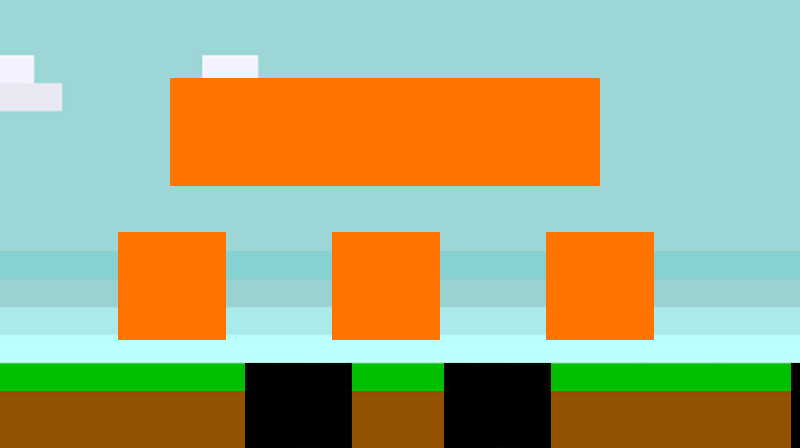
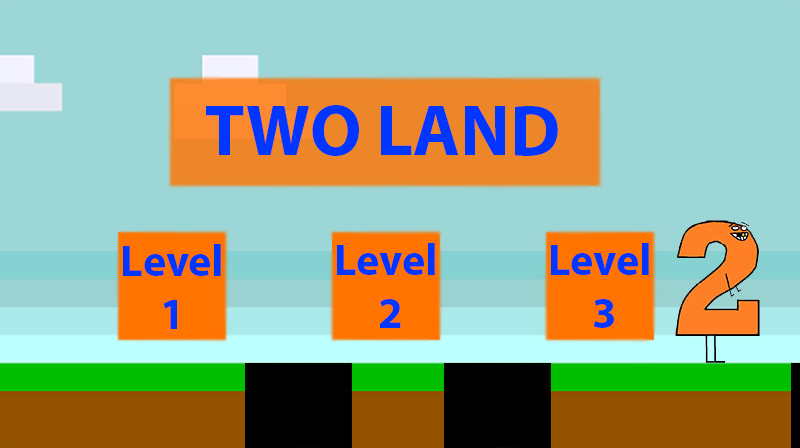
4/8/2015

diff --git a/SideScroller/src/AlphaGame/Background.java b/SideScroller/src/AlphaGame/Background.java
@@ -52,8 +52,10 @@ public class Background extends JPanel implements ActionListener, Runnable {
 
 
 	Path wall1 = Paths.get("Resources/Images/Levels/firstLevel.png");
+	Path wall2 = Paths.get("Resources/Images/Levels/secondLevel.png");
 
-
+	int lvlID;
+	
 	/** 
 	 *   Constructs the new Background object with a timer, a new character object, and an action listener
 	 * @throws FileNotFoundException 
@@ -61,18 +63,26 @@ public class Background extends JPanel implements ActionListener, Runnable {
 	public Background(String name) throws FileNotFoundException{
 		guy = new Character();
 		
-		
-		setFocusable(true);
-		
 		addKeyListener(new AL());
 		
-		ImageIcon i = new ImageIcon(wall1.toString());
-		background = i.getImage();
+		
+		
 
 		time = new Timer(5, this);
 		time.start();
 
 		obstacleInit(name);
+		
+		ImageIcon i=null;
+		if(lvlID==1){
+			i = new ImageIcon(wall1.toString());
+		}
+		if(lvlID==2){
+			i = new ImageIcon(wall2.toString());
+		}
+		
+		background = i.getImage();
+		
 	}
 
 	private void obstacleInit(String level) throws FileNotFoundException{
@@ -80,7 +90,9 @@ public class Background extends JPanel implements ActionListener, Runnable {
 		Scanner scan = new Scanner(file);
 
 		int i=0;
-
+		
+		lvlID=scan.nextInt();
+		
 		if(scan.hasNext("hole")){
 			scan.next();
 			holes = scan.nextInt();
@@ -153,6 +165,16 @@ public class Background extends JPanel implements ActionListener, Runnable {
 		}
 		
 		
+		if(failure){
+			setFocusable(false);
+			time.stop();
+			try {
+				Frame.lvlEnd();
+			} catch (FileNotFoundException e1) {
+				// TODO Auto-generated catch block
+				e1.printStackTrace();
+			}
+		}
 		repaint();
 	}
 
@@ -171,9 +193,17 @@ public class Background extends JPanel implements ActionListener, Runnable {
 		super.paint(g);
 
 		Graphics2D g2d = (Graphics2D) g;
+		
 		g2d.drawImage(background, backX, 0, null);
 
 		g2d.drawImage(guy.getImage(), guy.getX(), v, null);
+		
+		if((guy.getX()+(backX*(-1)))>Frame.getScore()){
+			Frame.setScore((guy.getX()+(backX*(-1))));
+		}
+		
+		g2d.setFont(new Font("TimesRoman", Font.PLAIN, 25)); 
+		g2d.drawString("Your score: "+Frame.getScore(), 10, 25);
 
 	}
 

diff --git a/SideScroller/src/AlphaGame/Frame.java b/SideScroller/src/AlphaGame/Frame.java
@@ -4,22 +4,27 @@ import java.io.FileNotFoundException;
 
 import java.util.Timer;
 
+
 /** 
  *   The Main Class for the test game
  *   
  *   @author Team Two
  */
 import javax.swing.JFrame;
+import javax.swing.JPanel;
 
 public class Frame {
 	
 	static JFrame frame = new JFrame("2D Game");
+	static TitleScreen title;
+	static Background level;
+	
+	static int maxScore;
 
 	public Frame() throws FileNotFoundException{
+		maxScore=0;
+		frame.add(title = new TitleScreen());
 		
-		frame.add(new TitleScreen());
-		
-		//frame.add(new Background("Resources/LevelData/Level1.txt") );
 		frame.setDefaultCloseOperation(JFrame.EXIT_ON_CLOSE);
 		frame.setSize(800, 448);
 		frame.setVisible(true);
@@ -27,19 +32,42 @@ public class Frame {
 		
 		
 	}
+	
+	public static void setScore(int score){
+		maxScore = score;
+	}
+	public static int getScore(){
+		return maxScore;
+	}
 
+	public static void lvlEnd() throws FileNotFoundException{
+		frame.getContentPane().removeAll();
+		
+		frame.add(title = new TitleScreen());
+		frame.setDefaultCloseOperation(JFrame.EXIT_ON_CLOSE);
+		frame.setVisible(true);
+		frame.setLocationRelativeTo(null);
+		frame.repaint();
+	}
+	
+	
 	public static void lvlStart(String name) throws FileNotFoundException{
 		frame.getContentPane().removeAll();
-		frame.add(new Background(name));
+		
+		frame.add(level=new Background(name));
 		frame.setDefaultCloseOperation(JFrame.EXIT_ON_CLOSE);
-		frame.setSize(800, 448);
 		frame.setVisible(true);
 		frame.setLocationRelativeTo(null);
 		frame.repaint();
 		
 	}
 	public static void main(String[] args) throws FileNotFoundException{
-		new Frame();
+		
+		
+		
+		Frame game =new Frame();
+		
+		
 	}
 
 	

diff --git a/SideScroller/src/AlphaGame/TitleScreen.java b/SideScroller/src/AlphaGame/TitleScreen.java
@@ -43,8 +43,10 @@ public class TitleScreen extends JPanel implements ActionListener{
 		kRelease = true;
 		selector = 148;
 		
-		addKeyListener(new Act());
 		setFocusable(true);
+		
+		addKeyListener(new Act());
+		
 		
 		
 		
@@ -55,7 +57,9 @@ public class TitleScreen extends JPanel implements ActionListener{
 		
 		think = new Timer(1, this);
 		think.start();
+		
 
+		requestFocus();
 
 	}
 
@@ -67,7 +71,7 @@ public class TitleScreen extends JPanel implements ActionListener{
 	
 	
 	public void actionPerformed(ActionEvent e){
-		
+		requestFocus();
 		repaint();
 	}
 
@@ -77,12 +81,18 @@ public class TitleScreen extends JPanel implements ActionListener{
 
 
 	public void paint(Graphics g){
-
+		requestFocus();
 		super.paint(g);
 
-		Graphics2D g3d = (Graphics2D) g;
-		g3d.drawImage(background, 0, 0, null);
-		g3d.drawImage(arrow, selector, 186, null);
+		Graphics2D g2d = (Graphics2D) g;
+		
+		g2d.drawImage(background, 0, 0, null);
+		g2d.drawImage(arrow, selector, 186, null);
+		
+		g2d.setFont(new Font("TimesRoman", Font.PLAIN, 25)); 
+		g2d.drawString("Your score: "+Frame.getScore(), 10, 25);
+		
+		
 
 	}
 
@@ -154,6 +164,7 @@ public class TitleScreen extends JPanel implements ActionListener{
 	
 	public void startLevel() throws FileNotFoundException{
 		setFocusable(false);
+		think.stop();
 		if(selector==148){ //Level1
 			Frame.lvlStart(lvl1.toString());
 		}
